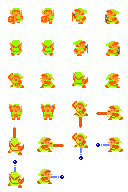
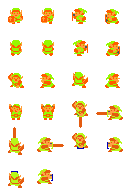
Added master sword + pickups
pues eso :dancer:

diff --git a/js/link_prefab.js b/js/link_prefab.js
@@ -16,6 +16,10 @@ gameEngine.link_prefab = function(game, pos_x, pos_y, level){
     this.animations.add("attack_left", [9, 15], 60, false);
     this.animations.add("attack_up", [10, 16], 60, false);
     this.animations.add("attack_right", [11, 17], 60, false);
+    this.animations.add("master_attack_down", [8, 18], 60, false);
+    this.animations.add("master_attack_left", [9, 19], 60, false);
+    this.animations.add("master_attack_up", [10, 20], 60, false);
+    this.animations.add("master_attack_right", [11, 21], 60, false);
     this.animations.add("collect", [12, 13], 2, false);
         
     this.level = level;
@@ -28,6 +32,11 @@ gameEngine.link_prefab = function(game, pos_x, pos_y, level){
     this.attackTimeCounter = 0;
     this.attackPower = 1;
     this.swordThrown = false;
+    this.hasSword = false;
+    this.hasMasterSword = false;
+    this.counter = 0;
+    this.rewardTime = 0;
+    this.canMove = true;
     
     //Load audios
     this.linkAttackSound = this.level.add.audio('linkAttack');
@@ -49,17 +58,20 @@ gameEngine.link_prefab.prototype.update = function(){
     this.game.physics.arcade.collide(this, this.level.walls);
     this.game.physics.arcade.collide(this, this.level.mapCollisions);
     //Update
-     if(this.level.pause.paused){
+     if(this.level.pause.paused || !this.canMove){
         this.body.velocity.x = 0;
         this.body.velocity.y = 0;
         this.animations.stop();
      }
      else if(!this.attacking){
-            if(InputManager.A.isDown && InputManager.A.downDuration(this.attackTime)){
+            if(InputManager.A.isDown && InputManager.A.downDuration(this.attackTime) && this.hasSword == true){
                 this.body.velocity.x = 0;
                 this.body.velocity.y = 0;
                 this.attackTimeCounter = 0;
-                this.animations.play("attack_" + this.facingDirection);
+                if(this.hasMasterSword)
+                    this.animations.play("master_attack_" + this.facingDirection);
+                else
+                    this.animations.play("attack_" + this.facingDirection);
                 this.linkAttackSound.play();
                 this.attacking = true;
                 this.level.hitbox.active = true;
@@ -134,7 +146,10 @@ gameEngine.link_prefab.prototype.update = function(){
                     default:
                         break;
                 }
-                this.sword = new gameEngine.projectile_prefab(this.game, SYSTEM_CONSTANTS.PROJECTILE_TYPES.SWORD, this.body.position.x + 4, this.body.position.y + 7, this.direction, this.level);
+                var type = SYSTEM_CONSTANTS.PROJECTILE_TYPES.SWORD;
+                if(this.hasMasterSword)
+                    type = SYSTEM_CONSTANTS.PROJECTILE_TYPES.MASTER_SWORD;
+                this.sword = new gameEngine.projectile_prefab(this.game, type, this.body.position.x + 4, this.body.position.y + 7, this.direction, this.level);
                 this.game.add.existing(this.sword);
             }
             this.attackTimeCounter += this.level.game.time.physicsElapsed;
@@ -147,5 +162,13 @@ gameEngine.link_prefab.prototype.recieveDamage = function(damage){
     if(this.life <= 0){
         this.life = 0;
         this.game.state.start(this.game.state.current);
+    }
+    
+}
+gameEngine.link_prefab.prototype.heal = function(heal){
+    this.game.camera.flash(0x00aa00, 100);
+    this.life += heal;
+    if(this.life > 6){
+        this.life = 6;
     }
 }

diff --git a/js/pickup_prefab.js b/js/pickup_prefab.js
@@ -1,0 +1,89 @@
+var gameEngine = gameEngine || {};
+
+gameEngine.pickup_prefab = function(game,type,pos_x,pos_y,level){
+    
+    this.game = game;
+    
+    switch(type)
+        {
+            case SYSTEM_CONSTANTS.PICKUPS.SWORD:
+            {
+                Phaser.Sprite.call(this, game, pos_x, pos_y,'sword', 0);
+
+            }break;
+            case SYSTEM_CONSTANTS.PICKUPS.MASTER_SWORD:
+            {
+               Phaser.Sprite.call(this, game, pos_x, pos_y,'master_sword', 0);
+            }break;
+            case SYSTEM_CONSTANTS.PICKUPS.HEART:
+            {
+                Phaser.Sprite.call(this, game, pos_x, pos_y,'heart', 0);
+            }break;
+            default:
+            {
+    
+            }break;
+        }
+
+
+    this.anchor.setTo(.5);
+    game.physics.arcade.enable(this);
+    this.body.moves = false;
+    this.body.ummovable = true;
+    
+    this.timer = this.game.time.create(false);
+    this.timer.loop(1200, function(){
+        this.destroy();
+        console.log("Destroying");
+        this.level.link.canMove = true;
+        this.timer.stop();
+    }, this);
+    
+    this.type = type;
+    this.level = level;
+    this.game.physics.arcade.enable(this); 
+};
+
+gameEngine.pickup_prefab.prototype = Object.create(Phaser.Sprite.prototype);
+gameEngine.pickup_prefab.prototype.constructor = gameEngine.pickup_prefab;
+
+gameEngine.pickup_prefab.prototype.update = function(){
+    switch(this.type){
+            case SYSTEM_CONSTANTS.PICKUPS.SWORD:
+            {
+                 this.game.physics.arcade.overlap(this, this.level.link, function(sword, link){
+                     sword.x = link.x;
+                     sword.y = link.y - 15;
+                     link.frame = 13;
+                     link.hasSword = true;
+                     link.canMove = false;
+                     sword.timer.start();
+                 });
+
+            }break;
+            case SYSTEM_CONSTANTS.PICKUPS.MASTER_SWORD:
+            {
+                 this.game.physics.arcade.overlap(this, this.level.link, function(master_sword, link){
+                     master_sword.x = link.x;
+                     master_sword.y = link.y - 15;
+                     link.frame = 13;
+                     link.hasSword = true;
+                     link.hasMasterSword = true;
+                     link.canMove = false;
+                     master_sword.timer.start();
+                 });
+            }break;
+            case SYSTEM_CONSTANTS.PICKUPS.HEART:
+            {
+                 this.game.physics.arcade.overlap(this, this.level.link, function(heart, link){
+                     link.heal(2);
+                     heart.kill();
+                     
+                 });
+            }break;
+            default:
+            {
+    
+            }break; 
+    }
+};

diff --git a/js/overworld.js b/js/overworld.js
@@ -63,6 +63,15 @@ gameEngine.overworld ={
         this.createHud();
         
         this.pause = new gameEngine.pauseMenu_prefab(this.game, this);
+        
+        this.pickup = new gameEngine.pickup_prefab(this.game, SYSTEM_CONSTANTS.PICKUPS.HEART, this.worldCellSize / 2 + this.worldCellSize * this.actualCellX + 70, this.worldCellSize / 2 + this.worldCellSize * this.actualCellY, this);
+        this.game.add.existing(this.pickup);
+        
+        this.pickup2 = new gameEngine.pickup_prefab(this.game, SYSTEM_CONSTANTS.PICKUPS.SWORD, this.worldCellSize / 2 + this.worldCellSize * this.actualCellX + 70, this.worldCellSize / 2 + this.worldCellSize * this.actualCellY + 70, this);
+        this.game.add.existing(this.pickup2);
+        
+        this.pickup3 = new gameEngine.pickup_prefab(this.game, SYSTEM_CONSTANTS.PICKUPS.MASTER_SWORD, this.worldCellSize / 2 + this.worldCellSize * this.actualCellX - 70, this.worldCellSize / 2 + this.worldCellSize * this.actualCellY + 70, this);
+        this.game.add.existing(this.pickup3);
 
     },
     update:function(){

diff --git a/js/projectile_prefab.js b/js/projectile_prefab.js
@@ -38,7 +38,13 @@ gameEngine.projectile_prefab = function(game,type,x,y,direction,level){
             {    
                 Phaser.Sprite.call(this,game,x,y,'sword');
                 this.type = type;
-                this.speed = 150;
+                this.speed = 250;
+            }break;
+            case SYSTEM_CONSTANTS.PROJECTILE_TYPES.MASTER_SWORD:
+            {    
+                Phaser.Sprite.call(this,game,x,y,'master_sword');
+                this.type = type;
+                this.speed = 320;
             }break;
             default:
             {
@@ -91,7 +97,7 @@ gameEngine.projectile_prefab.prototype.update = function(){
             bullet.kill();
     }});
     
-    if(this.type != SYSTEM_CONSTANTS.PROJECTILE_TYPES.SWORD){
+    if(this.type != SYSTEM_CONSTANTS.PROJECTILE_TYPES.SWORD && this.type != SYSTEM_CONSTANTS.PROJECTILE_TYPES.MASTER_SWORD){
         this.game.physics.arcade.collide(this,this.level.link,
         function(bullet,link){
         if(bullet.body.touching){

diff --git a/js/loading_scene.js b/js/loading_scene.js
@@ -30,6 +30,8 @@ gameEngine.loading_scene ={
         this.load.image('hitbox', 'img/collider.png', 32, 32);
         this.load.image('black', 'img/black.png', 32, 32);
         this.load.image('sword', 'img/sword.png', 7, 16);
+        this.load.image('master_sword', 'img/master_sword.png', 7, 16);
+        this.load.image('heart', 'img/heart.png', 7, 8);
         
         //Main menu image and button image loading
         this.load.image('mainMenu', 'img/mainMenu.jpg');

diff --git a/js/main.js b/js/main.js
@@ -26,13 +26,20 @@ var SYSTEM_CONSTANTS = {
     PROJECTILE_TYPES: {
         ROCK: 0,
         FIREBALL: 1,
-        SWORD: 2
+        SWORD: 2,
+        MASTER_SWORD: 3
     },
     DIRECTIONS: {
         UP: new Phaser.Point(0,-1),
         DOWN: new Phaser.Point(0,1),
         LEFT: new Phaser.Point(-1,0),
         RIGHT: new Phaser.Point(1,0)
+    },
+    PICKUPS:{
+        SWORD: 0,
+        MASTER_SWORD: 1,
+        HEART: 2, 
+        KEY: 3
     }
 };
 

diff --git a/index.html b/index.html
@@ -27,6 +27,8 @@
     <script src="js/pauseMenu_prefab.js"></script>
     
     <script src="js/dooor_prefab.js"></script>
+    
+    <script src="js/pickup_prefab.js"></script>
 
     <script src="js/overworld.js"></script>
     <script src="js/dungeon.js"></script>
